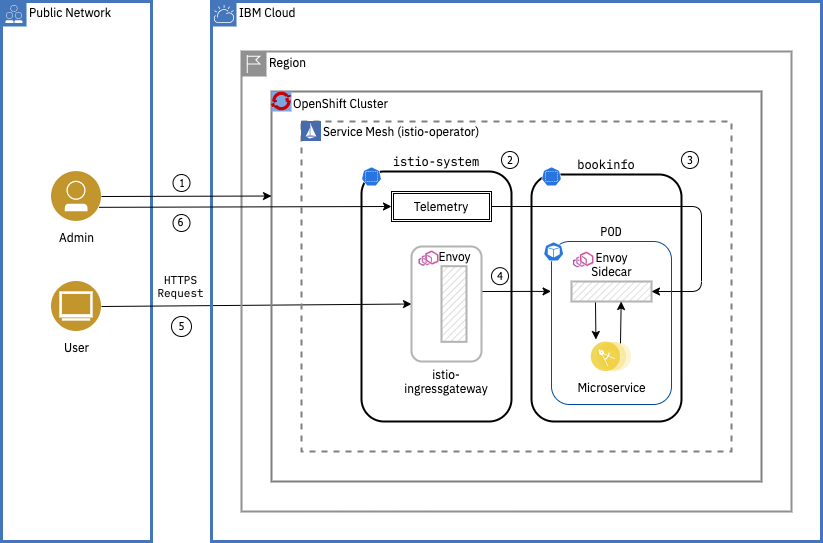
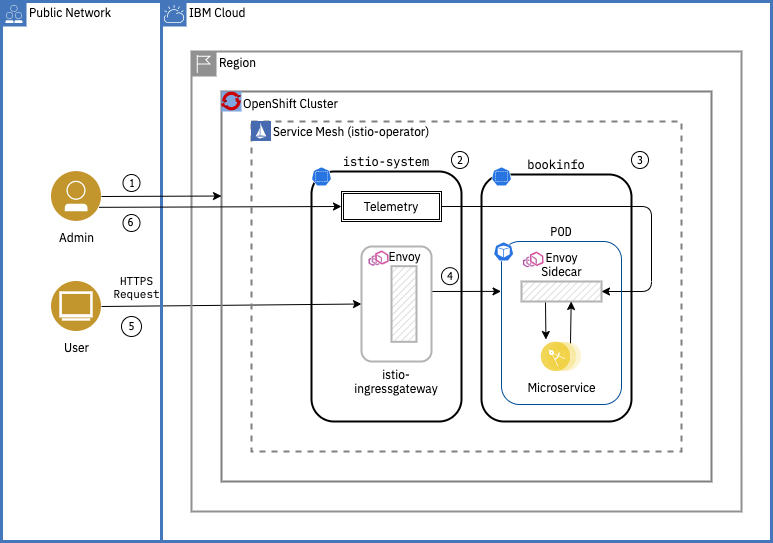
Review updates

diff --git a/istio-openshift.hidden.md b/istio-openshift.hidden.md
@@ -2,7 +2,7 @@
 subcollection: solution-tutorials
 copyright:
   years: 2020
-lastupdated: "2020-05-21"
+lastupdated: "2020-05-22"
 lasttested: "2020-05-19"
 ---
 
@@ -16,7 +16,7 @@ lasttested: "2020-05-19"
 # Service Mesh on {{site.data.keyword.openshiftshort}}
 {: #istio-openshift}
 
-This tutorial walks you through how to install Red Hat {{site.data.keyword.openshiftshort}} Service Mesh alongside microservices for a simple mock app called BookInfo in a [{{site.data.keyword.openshiftlong_notm}}](https://{DomainName}/kubernetes/catalog/openshiftcluster) cluster. You will also learn how to configure an Istio ingress-gateway to expose a service outside of the service mesh, perform traffic management to set up important tasks like A/B testing and canary deployments, secure your microservice communication and use of metrics, logging and tracing to observe services.
+This tutorial walks you through how to install Red Hat {{site.data.keyword.openshiftshort}} Service Mesh alongside microservices for a sample app called BookInfo in a [{{site.data.keyword.openshiftlong_notm}}](https://{DomainName}/kubernetes/catalog/openshiftcluster) cluster. You will also learn how to configure an Istio ingress-gateway to expose a service outside of the service mesh, perform traffic management to set up important tasks like A/B testing and canary deployments, secure your microservice communication and use of metrics, logging and tracing to observe services.
 {:shortdesc}
 
 Based on the open source Istio project, Red Hat {{site.data.keyword.openshiftshort}} Service Mesh adds a transparent layer on existing distributed applications. Red Hat {{site.data.keyword.openshiftshort}} Service Mesh provides a platform for behavioral insight and operational control over your networked microservices in a service mesh. With Red Hat {{site.data.keyword.openshiftshort}}, you can connect, secure, and monitor microservices in your {{site.data.keyword.openshiftlong_notm}} cluster.
@@ -54,8 +54,8 @@ This tutorial may incur costs. Use the [Pricing Calculator](https://{DomainName}
 2. Admin creates an `istio-system` namespace(project) and creates `ServiceMeshControlPlane`.
 3. Admin creates a `bookinfo` namespace with automatic sidecar injection enabled and deploys the BookInfo app (with four separate microservices) in to the Service Mesh.
 4. Admin exposes the app for external traffic with the Istio Ingress Gateway.
-5. The user securely(HTTPS) accesses the application via browser and also secures the microservices communication with mutual TLS(mtls).
-6. The Admin monitors the health and performance of the microservices using the Telemetry data(metrics, traces, logs).
+5. The user securely(HTTPS) accesses the application via browser.
+6. The admin monitors the health and performance of the microservices using the metrics, traces, logs.
 
 <!--##istutorial#-->
 
@@ -89,7 +89,7 @@ To avoid installing the command line, the recommended approach is to use the {{s
 
 {{site.data.keyword.Bluemix_notm}} Shell is a cloud-based shell workspace that you can access through your browser. It's preconfigured with the full {{site.data.keyword.Bluemix_notm}} CLI and tons of plug-ins and tools that you can use to manage apps, resources, and infrastructure.
 
-1. When the cluster is ready, click on the **Access** tab under the cluster name and open the **{{site.data.keyword.openshiftshort}} web console**.**_Make sure you don't close this window/tab_**
+1. When the cluster is ready, click on the **Access** tab under the cluster name and open the **{{site.data.keyword.openshiftshort}} web console**. **_Make sure you don't close this window/tab_**
 2. On the web console, from the dropdown menu in the upper right of the page, click **Copy Login Command** and then click the **Display Token** link.
 3. Copy the text under **Log in with this token**.
 4. In a new browser tab/window, open the [{{site.data.keyword.Bluemix_notm}} Shell](https://{DomainName}/shell) to start a new session.Once the session starts, you should be automatically logged-in to the {{site.data.keyword.Bluemix_notm}} CLI. **_Make sure you don't close this window/tab_**
@@ -117,7 +117,7 @@ In this section, you will install Service Mesh - Istio on the cluster. Installin
 1. On the left pane of **{{site.data.keyword.openshiftshort}} web console**, select **Administrator** in the drop down
 2. Select **Operators** and then **OperatorHub**
 3. Search for **Elasticsearch Operator**, click **Install** and then **Subscribe**
-4. **Repeat** steps 2 and 3 for installing **Red Hat {{site.data.keyword.openshiftshort}} Jaeger**, **Kiali Operator provided by Red Hat** and **Red Hat {{site.data.keyword.openshiftshort}} Service Mesh** Operators.
+4. **Repeat** steps 2 and 3 for installing **Red Hat {{site.data.keyword.openshiftshort}} Jaeger**, **Kiali Operator** (provided by Red Hat) and **Red Hat {{site.data.keyword.openshiftshort}} Service Mesh** Operators.
 
 ### Deploying the Red Hat {{site.data.keyword.openshiftshort}} Service Mesh control plane
 
@@ -126,9 +126,10 @@ The Red Hat {{site.data.keyword.openshiftshort}} Service Mesh operator uses a `S
 1.  Create a new project by going to **Home** on the left pane of the web console, click **Projects** and then **Create Project**
 2.  Enter `istio-system` in the **Name** and click **Create**
 3.  Navigate to **Operators** and click **Installed Operators**
-4.  Click the **Red Hat {{site.data.keyword.openshiftshort}} Service Mesh Operator**. If you don't see it, wait a couple of minutes and refresh.
-5.  Under **Istio Service Mesh Control Plane** click **Create ServiceMeshControlPlane**.
-6.  Then, click **Create**. The Operator creates Pods, services, and Service Mesh control plane components based on your configuration parameters.
+4.  Select `istio-system` from the Project menu on the top bar.
+5.  Click the **Red Hat {{site.data.keyword.openshiftshort}} Service Mesh Operator**. If you don't see it, wait a couple of minutes and refresh.
+6.  Under **Istio Service Mesh Control Plane** click **Create Instance**.
+7.  Then, click **Create**. The Operator creates Pods, services, and Service Mesh control plane components based on your configuration parameters.
 
 ### Create a ServiceMeshMemberRoll
 
@@ -137,8 +138,8 @@ ServiceMeshMemberRoll resource is used to to specify the namespaces associated w
 1. Navigate to **Operators** → **Installed Operators** again.
 2. Click the **Red Hat {{site.data.keyword.openshiftshort}} Service Mesh Operator**.
 3. In the tab area, scroll to the right to find **Istio Service Mesh Member Roll**
-4. Click **Create ServiceMeshMemberRoll**
-5. Change `your-project` to `bookinfo` and delete the last line.
+4. Click **Create Instance**
+5. Change `your-project` to `bookinfo` and delete the last line(`-another-of-your-projects`).
 6. Then, click **Create**.
 
 You successfully installed Istio into your cluster.
@@ -148,7 +149,20 @@ You successfully installed Istio into your cluster.
 
 The [BookInfo application](https://istio.io/docs/examples/bookinfo/) displays information about a book, similar to a single catalog entry of an online book store. Displayed on the page is a description of the book, book details (ISBN, number of pages, and so on), and a few book reviews.
 
-The application is composed of four separate microservices used to demonstrate various Istio features.
+The Bookinfo application is broken into four separate microservices:
+
+* productpage. The productpage microservice calls the details and reviews microservices to populate the page.
+* details. The details microservice contains book information.
+* reviews. The reviews microservice contains book reviews. It also calls the ratings microservice.
+* ratings. The ratings microservice contains book ranking information that accompanies a book review.
+
+There are 3 versions of the reviews microservice:
+
+* Version v1 doesn’t call the ratings service.
+* Version v2 calls the ratings service, and displays each rating as 1 to 5 black stars.
+* Version v3 calls the ratings service, and displays each rating as 1 to 5 red stars.
+
+The end-to-end architecture of the application is shown below.
 
 ![](images/solution57-istio-openshift-hidden/withistio.svg)
 
@@ -208,7 +222,7 @@ Red Hat {{site.data.keyword.openshiftshort}} Service Mesh relies on the Envoy si
     Note that each bookinfo pods has 2 containers in it. One is the bookinfo container, and the other is the Envoy proxy sidecar.
     {:tip}
 
-Your bookinfo app is running, but you can't access it! In the next section, you will expose the `productpage` service to allow incoming traffic.
+Your bookinfo app is running, but you can't access it as the service is not yet configured to receive external traffic. In the next section, you will expose the `productpage` service to allow incoming traffic.
 
 ## Expose the app with the Istio Ingress Gateway and Route
 {: #ingress_gateway_route}
@@ -294,7 +308,7 @@ Pilot translates high-level rules into low-level configurations and distributes 
 
 A/B testing is a method of performing identical tests against two separate service versions in order to determine which performs better. To prevent Istio from performing the default routing behavior between the original and modernized service, define the following rules:
 
-1. Label the versions by running the below command in the Shell,
+1. Run the following command to create default destination rules for the Bookinfo services,
 
    ```sh
    oc create -f destination-rule-all.yaml
@@ -329,23 +343,23 @@ A/B testing is a method of performing identical tests against two separate servi
    apiVersion: networking.istio.io/v1alpha3
    kind: VirtualService
    metadata:
-    name: reviews
+     name: reviews
    spec:
-    hosts:
-    - reviews
-    http:
-    - match:
-         - headers:
-               user-agent:
-               regex: '.*Firefox.*'
-      route:
-      - destination:
-         host: reviews
-         subset: v2
-    - route:
-      - destination:
-         host: reviews
-         subset: v3
+     hosts:
+     - reviews
+     http:
+     - match:
+       - headers:
+           user-agent:
+             regex: '.*Firefox.*'
+       route:
+       - destination:
+           host: reviews
+           subset: v2
+     - route:
+       - destination:
+           host: reviews
+           subset: v3
    EOF
    ```
    {:pre}
@@ -405,17 +419,33 @@ In this section, you will create a secure Route to the Ingress Gateway with **Ed
 ## Remove resources
 {: #cleanup}
 
-- Delete all application resource objects:
-  ```sh
-  oc delete all --selector app=bookinfo
-  ```
-  {:pre}
 - Delete the project:
   ```sh
   oc delete project bookinfo
   ```
   {:pre}
-- Delete the cluster you created.
+
+### Removing the control plane from the CLI
+
+1. Run this command to retrieve the name of the installed ServiceMeshControlPlane:
+   ```sh
+   oc get servicemeshcontrolplanes -n istio-system
+   ```
+   {:pre}
+2. Replace `<name_of_custom_resource>` with the output from the previous command, and run this command to remove the custom resource:
+   ```sh
+   oc delete servicemeshcontrolplanes -n istio-system <name_of_custom_resource>
+   ```
+   {:pre}
+
+### Remove the Operators
+
+1. Navigate to the **Operators** → **Installed Operators** page of the web console.
+2. On the right-hand side of the Operator Details page, select **Uninstall Operator** from the Actions drop-down menu.
+3. Click **Remove**.
+4. Repeat steps 2 and 3 for each of the operator.
+
+- Delete the cluster to delete everything in one-go. This action is irreversible.
 
 ## Related content
 
